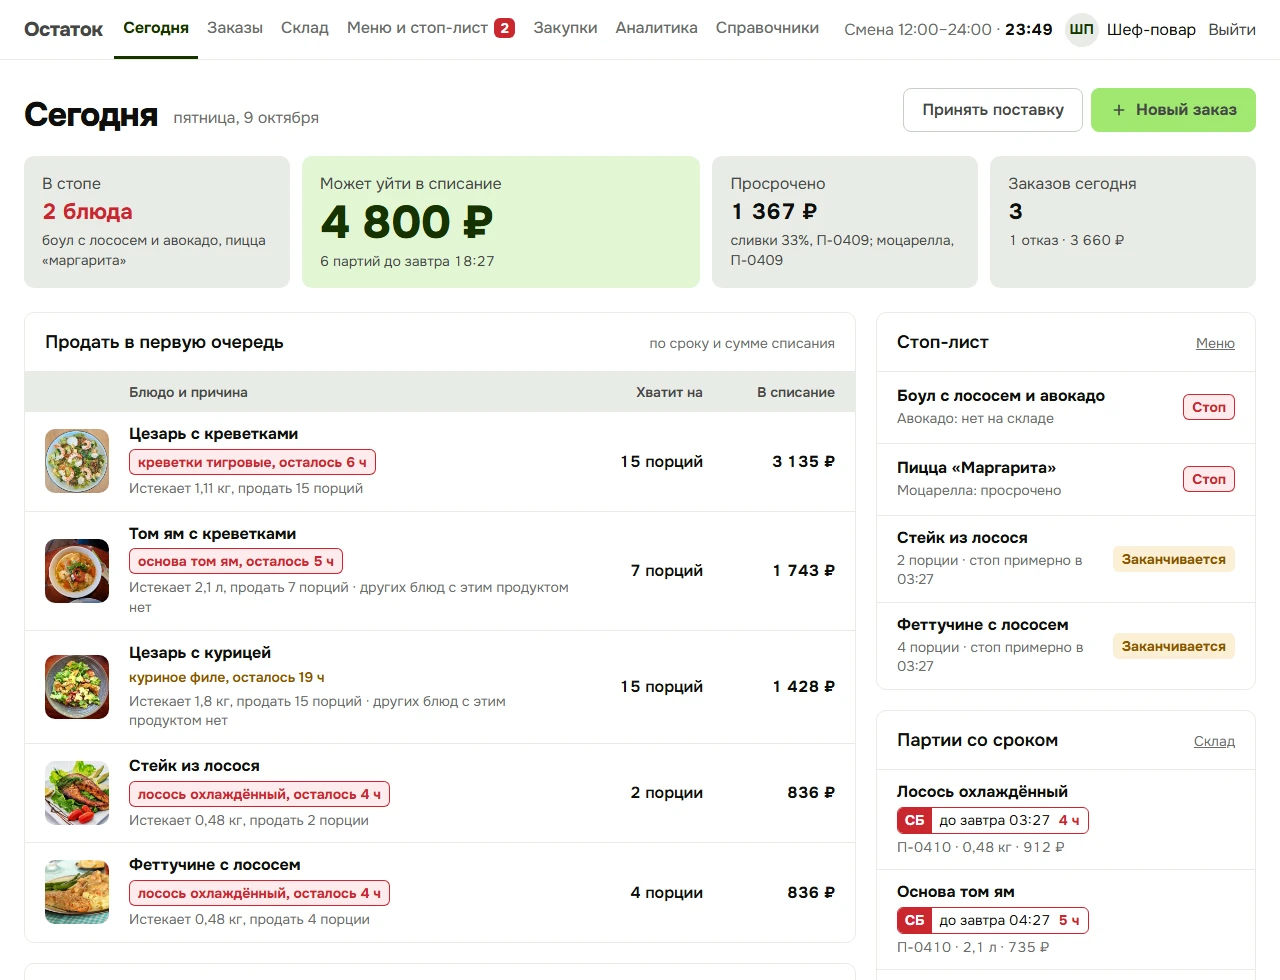
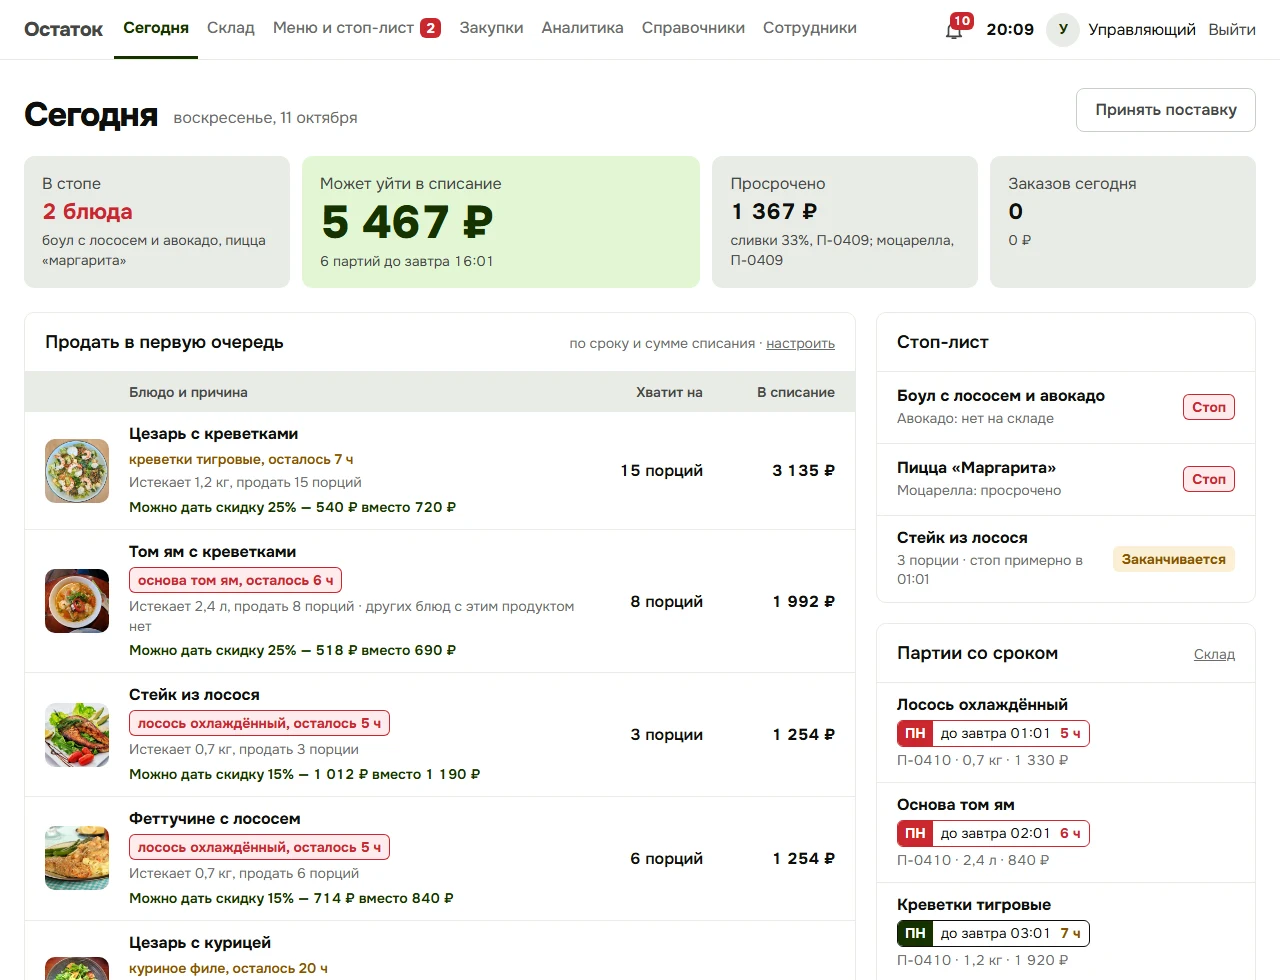
Лендинг: честные тексты про API и бота, свежий снимок кабинета

diff --git a/web/src/pages/Landing.tsx b/web/src/pages/Landing.tsx
@@ -257,7 +257,7 @@ export function Landing() {
             <div className="intg">
               <div className="api">
                 <h3>Открытый API для кассовой системы</h3>
-                <p style={{ margin: 0 }}>Поставки и заказы приходят автоматически. Если готовой связки с вашей кассой нет, подключим через API или настроим ручной ввод.</p>
+                <p style={{ margin: 0 }}>Касса или учётная система может сама отправлять в Остаток заказы и поставки. Готовых связок с кассами пока нет: подключаем под вашу систему или настраиваем ручной ввод.</p>
                 <pre>{`POST /api/orders
 {
   "place": "Стол 3",
@@ -279,7 +279,7 @@ export function Landing() {
                   <span className="muted" style={{ gridColumn: '1 / -1' }}>Приёмка поставки и стоп-лист одной рукой у камеры.</span>
                 </li>
                 <li>
-                  <h3>Telegram-бот</h3><span className="muted small">уведомления и управление</span>
+                  <h3>Telegram-бот</h3><span className="muted small">готовится к запуску</span>
                   <span className="bubble">В стоп: филе миньон. Вырезки 150 г, на порцию нужно 220 г. <b>18:32</b></span>
                 </li>
               </ul>
@@ -332,11 +332,10 @@ export function Landing() {
         <div className="foot-top">
           <div>
             <h2 style={{ fontSize: 28, fontWeight: 800, letterSpacing: '-.02em', color: 'var(--h)', margin: 0 }}>Остаток под рукой</h2>
-            <p className="muted" style={{ marginTop: 8 }}>Приложение для повара и кладовщика, бот — для уведомлений о сроках и стоп-листе.</p>
+            <p className="muted" style={{ marginTop: 8 }}>Приложение для Android уже можно скачать. Telegram-бот с уведомлениями о сроках и стоп-листе готовится к запуску.</p>
           </div>
           <div style={{ display: 'flex', gap: 10, flexWrap: 'wrap' }}>
             <a className="g-btn" href="https://github.com/3xfap2/hadashadfsj/releases/latest/download/ostatok.apk">Скачать приложение для Android</a>
-            <a className="g-btn" href="#">Открыть Telegram-бота</a>
           </div>
         </div>
         <div className="foot-bot">
